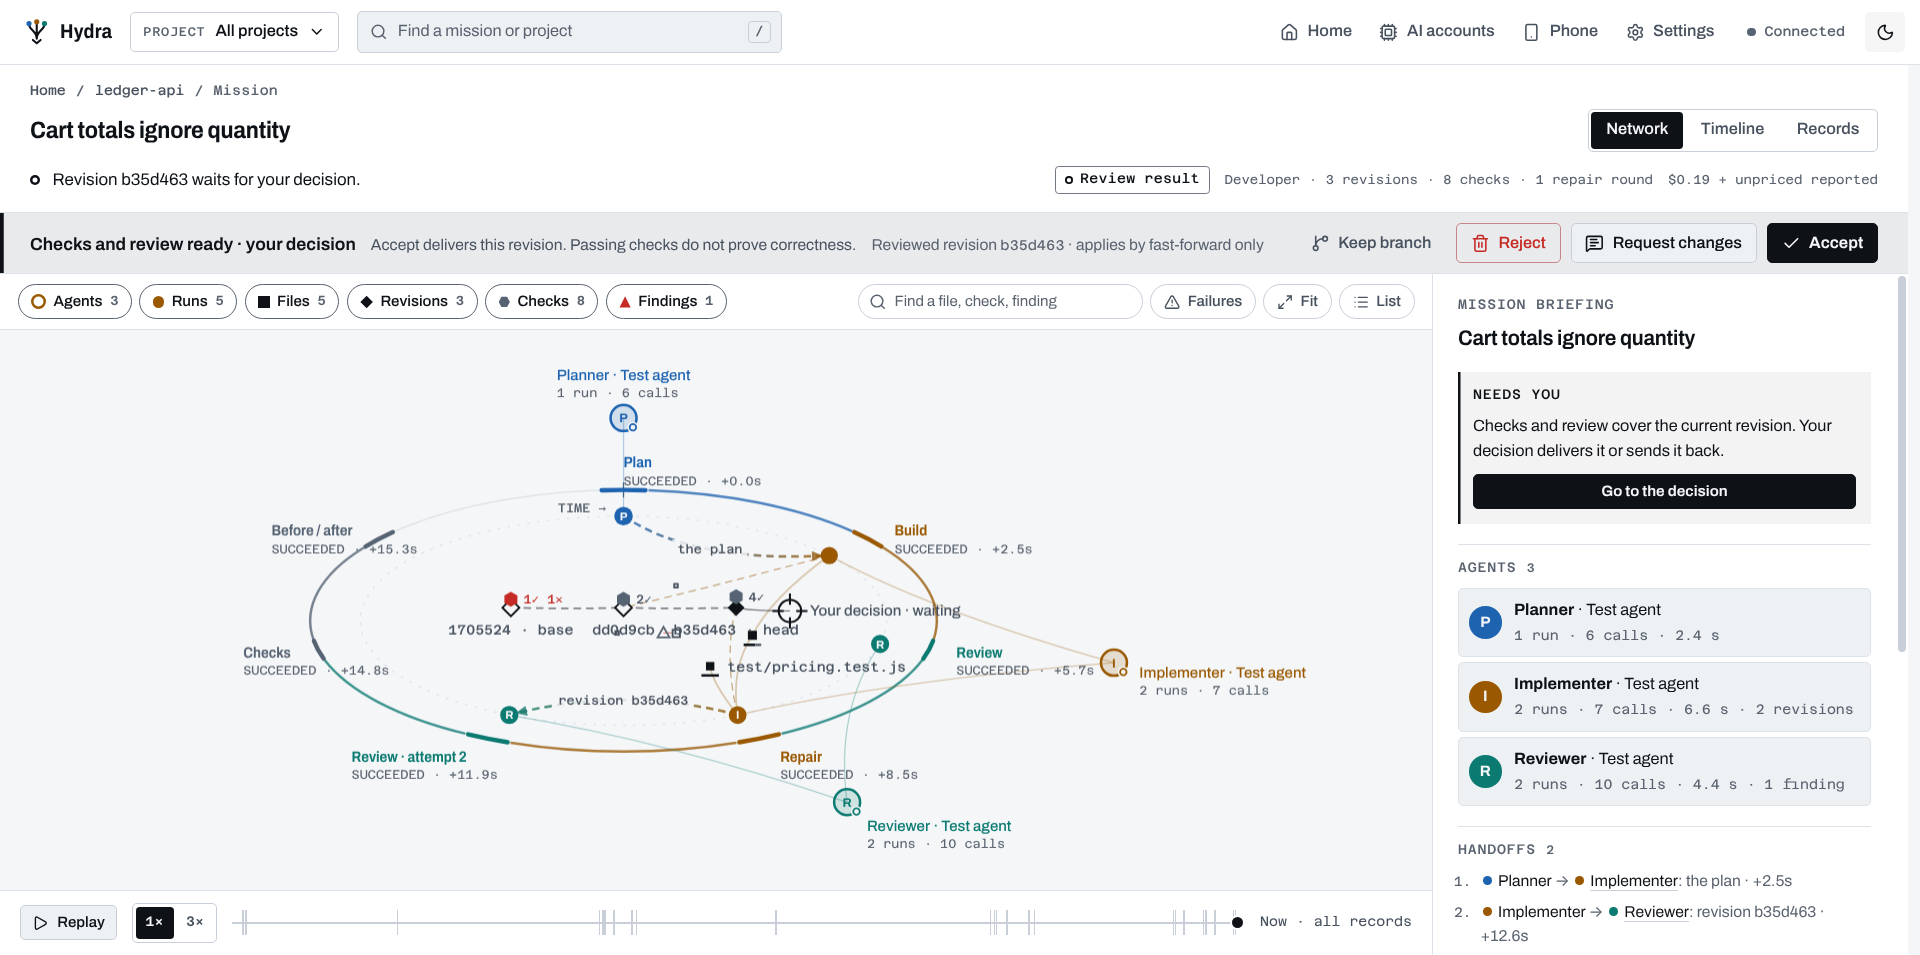
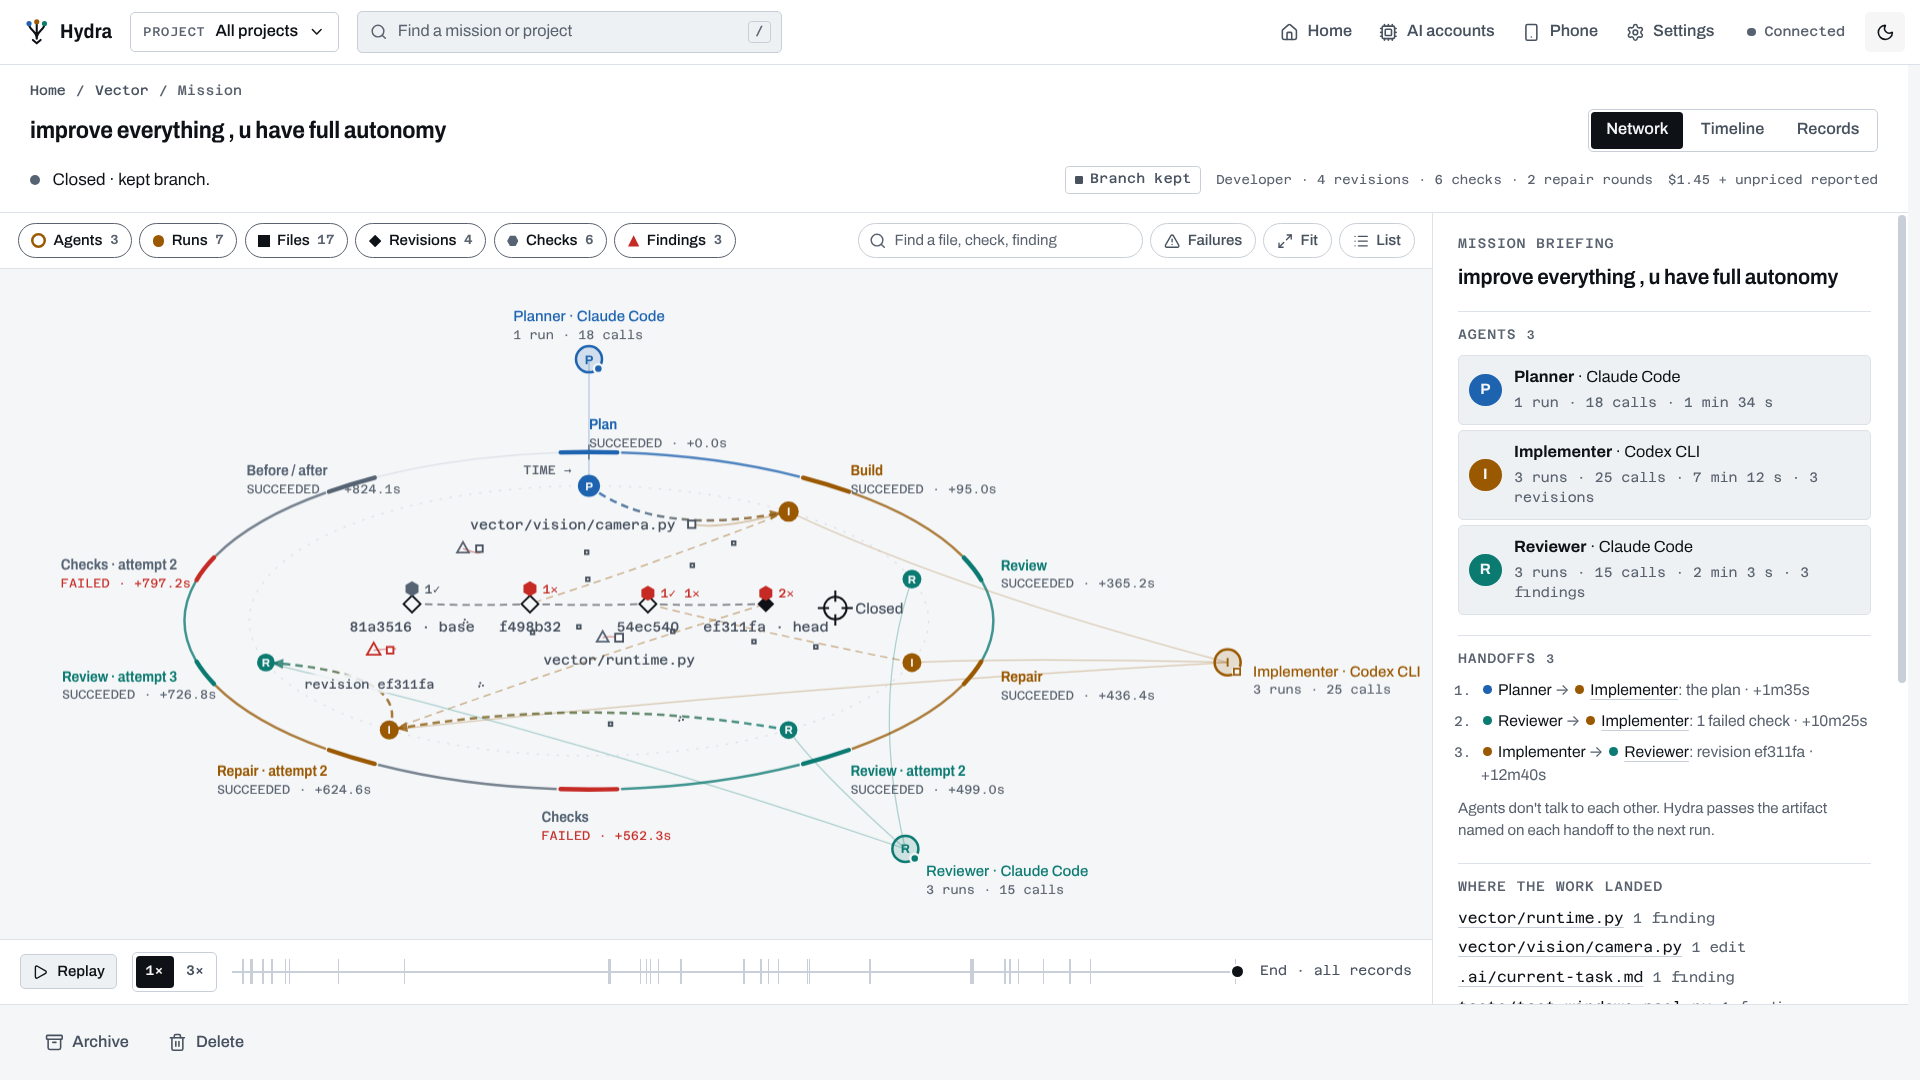
README: real missions, replay animation, pipeline and architecture diagrams
Screenshots and the replay GIF come from the packaged app on a read-only copy of the
owner's own Hydra records (published with his consent); the remote identity key was
removed from the copy and nothing from the database is committed.

Claude-Session: https://claude.ai/code/session_01HtCA6ixxcgZdfA7JCuDFHS

diff --git a/README.md b/README.md
@@ -1,40 +1,154 @@
+<div align="center">
+
+<img src="docs/media/hydra-mark.svg" width="88" alt="Hydra" />
+
 # Hydra
 
-Hydra is a desktop app that supervises AI coding agents (Claude Code and Codex CLI). Ask it a question and it answers; ask it for a change and it plans, implements, reviews and verifies the change in isolation, then waits for your approval.
+**Many coding agents. One supervisor. Nothing lands without proof and your approval.**
+
+Hydra is a desktop app that runs Claude Code and Codex CLI as a team: one plans, one builds, another reviews. Hydra runs your real tests itself and shows you exactly what happened before anything touches your code.
+
+![Status](https://img.shields.io/badge/status-developer%20preview-f5a524)
+![Agents](https://img.shields.io/badge/agents-Claude%20Code%20%C2%B7%20Codex%20CLI-39c6d6)
+![Desktop](https://img.shields.io/badge/desktop-Electron-47848f)
+![Data](https://img.shields.io/badge/data-local%20SQLite-3a7bd5)
+![TypeScript](https://img.shields.io/badge/TypeScript-strict-3178c6)
+
+<img src="docs/media/replay.gif" alt="Replaying a real Hydra mission: the planner hands its plan to the implementer, runs appear on the mission clock in recorded order, the reviewer picks up the revision, and checks land on each revision" width="100%" />
+
+<sub>A real mission replayed in Hydra: <i>"improve everything, u have full autonomy"</i> on a Python computer-vision project. Planner and reviewer on Claude Code, implementer on Codex CLI. Every mark and pulse comes from a recorded event.</sub>
+
+</div>
+
+---
+
+## The pipeline
 
 **PLAN → IMPLEMENT → REVIEW → FIX → VERIFY → DEMO → APPROVAL**
 
-![A mission on Hydra's evidence map: the mission clock with its stages, the agents around it, handoffs between runs, revisions, checks and the decision waiting for you](docs/media/mission-network.png)
+```mermaid
+flowchart LR
+    you([You describe a change]) --> plan[Plan<br/><sub>planner agent</sub>]
+    plan --> impl[Implement<br/><sub>own git worktree</sub>]
+    impl --> review[Review<br/><sub>a second agent</sub>]
+    review -- findings --> fix[Fix<br/><sub>bounded rounds</sub>]
+    fix --> review
+    review -- approved --> verify[Verify<br/><sub>Hydra runs your checks</sub>]
+    verify --> demo[Demo<br/><sub>before vs after</sub>]
+    demo --> decide{Your decision}
+    decide -- Accept --> apply([Applied to your branch])
+    decide -- Request changes --> fix
+    decide -- Reject or keep branch --> safe([Your tree untouched])
+```
 
-- **Isolated changes.** Every change runs in its own git worktree on a `hydra/*` branch. Hydra delivers a task revision only after your approval. Recorded applies offer revert-based rollback, subject to branch state and conflict resolution. Project checks still execute as your user; use trusted repositories.
-- **Evidence, not claims.** Hydra runs your project's tests and builds itself (Node, Python, Go, Rust, Java, C/C++, or your own `.hydra/checks.json`), records exit codes against the exact commit, and shows before/after results.
+- **Isolated changes.** Every change runs in its own git worktree on a `hydra/*` branch. Hydra delivers a revision only after your approval. Recorded applies offer revert-based rollback, subject to branch state and conflict resolution. Project checks still run as your user, so use repositories you trust.
+- **Evidence, not claims.** Hydra runs your project's tests and builds itself (Node, Python, Go, Rust, Java, C/C++, or your own `.hydra/checks.json`). It records exit codes against the exact commit and shows before and after results. An agent saying "tests pass" is never evidence.
 - **Independent review.** A second agent (a different provider when available) reviews the diff together with the real test results. Fix rounds are bounded.
 - **Budgets.** Per-task limits on cost, tokens, active time and agent runs.
 - **Your accounts, your bill.** Hydra uses *your* locally signed-in Claude Code and Codex CLIs. It never stores, proxies or ships credentials.
-- **Your data stays local.** Everything is in a local SQLite database. Remote control from a phone on your network is end-to-end encrypted, and no cloud database is involved.
+- **Your data stays local.** Everything lives in a local SQLite database. Remote control from a phone on your network is end-to-end encrypted, and no cloud database is involved.
 
-## A look inside
+## Two real missions
 
-Every mission opens on an evidence map drawn only from what Hydra recorded: no invented agent chatter, progress bars or success states. Anything derived from a stated rule is marked as derived.
+Both ran on the same night in October 2026, from open-ended prompts that handed the agents "full autonomy".
 
-| | |
+| | **telekinisis** · *"improve it, u have full liberty to act autonomously"* | **Vector** · *"improve everything, u have full autonomy"* |
+|---|---|---|
+| Team | Planner and reviewer on Claude Code, implementer on Codex CLI | Same team |
+| Work | 5 agent runs, 3 revisions, 1 repair round | 7 agent runs, 4 revisions, 2 repair rounds |
+| Review | **Approved**: no blocker or major problem | **Changes requested** (3 findings across its reviews) |
+| Hydra's own checks | `unittest` **fail → pass**, no regressions | `pytest` **pass → fail**: a regression |
+| Outcome | Branch kept | Branch kept, **nothing applied to the project** |
+| Reported cost | $0.99 + unpriced Codex usage | $1.45 + unpriced Codex usage |
+
+The second mission is the interesting one. The planner refused to boil the ocean:
+
+> *"Improve everything" is too broad to deliver in one reviewable change, so this plan targets the most valuable gaps I found: robustness and safety in the live runtime path (camera, vision worker, app startup and shutdown).*
+
+The implementer delivered camera recovery, stall handling and resource cleanup. The reviewer found a real problem in the new tests. Hydra's own before/after run showed `pytest` passing on the original commit and failing on the final one. So nothing was merged. The work stayed on its branch, and the evidence for why is one click away.
+
+## Inside the app
+
+Every mission opens on an **evidence map**, drawn only from what Hydra recorded. There is no invented agent chatter, no fake progress bars and no success states nobody observed. Anything derived from a stated rule is marked as derived.
+
+<img src="docs/media/mission-network.png" alt="The Vector mission on Hydra's evidence map: stages around the mission clock, three agents labelled by provider, handoffs, four revisions with their check badges, and the mission briefing" width="100%" />
+
+<sub>**The mission clock.** Stages run clockwise in recorded order. Agents sit outside the clock, each one a role on a provider. Revisions run left to right inside it, each with a badge counting its checks. The briefing on the right is computed from the records: who did what, every handoff, where the work landed and what the proof says.</sub>
+
+<table>
+<tr>
+<td width="50%"><img src="docs/media/agent-focus.png" alt="The Codex CLI implementer in focus: its three runs, 25 reported tool calls, 9 edits and 3 revisions" /></td>
+<td width="50%"><img src="docs/media/revision.png" alt="Revision ef311fa selected: commit, checks on it (two failed pytest runs), who produced it and who reviewed it" /></td>
+</tr>
+<tr>
+<td><b>Focus on an agent.</b> Everything else dims. Its runs, reported tool calls, edits, revisions and token usage come straight from the run records.</td>
+<td><b>Follow a revision.</b> The exact commit, the checks Hydra ran on it, the run that produced it and the review that read it.</td>
+</tr>
+<tr>
+<td><img src="docs/media/timeline.png" alt="Timeline lens: you, the agents, edits by file and the checks Hydra ran, in lanes over 16 minutes of recorded time" /></td>
+<td><img src="docs/media/records.png" alt="Records lens: the plan written by the planner and the before/after check comparison showing the pytest regression" /></td>
+</tr>
+<tr>
+<td><b>Timeline.</b> The same records in lanes: you, each agent, edits by file and every check Hydra ran, across the mission's 16 recorded minutes.</td>
+<td><b>Records.</b> The full plan, the before/after comparison (here: <code>pytest</code> pass → fail, flagged as a regression), every check and the event log.</td>
+</tr>
+<tr>
+<td><img src="docs/media/mission-network-day.png" alt="The same mission in the Day theme" /></td>
+<td><img src="docs/media/second-mission.png" alt="The telekinisis mission: plan, build, review, repair, a second review and passing checks" /></td>
+</tr>
+<tr>
+<td><b>Night and Day.</b> Two full themes, designed together. Red always means something stopped.</td>
+<td><b>Another mission.</b> The telekinisis run: plan, build, review, one repair round, a second review, then checks that went from failing to passing.</td>
+</tr>
+</table>
+
+**Replay** (the animation at the top) steps through recorded time. Later records are hidden and outcomes never leak backwards. Each newly recorded handoff or result lights up once, and decisions are disabled until you return to the present. With reduced motion on, it steps from moment to moment without animation.
+
+<sub>Screenshots and animation: the packaged desktop app at 1536×864 (125 % scaling on a 1920×1080 display), on a read-only copy of the owner's own Hydra records. Project names, prompts and agent output are real.</sub>
+
+## How it is built
+
+```mermaid
+flowchart TB
+    subgraph desktop["Desktop app (Electron)"]
+        ui["React UI<br/><sub>evidence map · replay · decisions</sub>"]
+    end
+    subgraph hydrad["hydrad (local engine)"]
+        api["HTTP + WebSocket API<br/><sub>typed, zod-validated</sub>"]
+        orch["Orchestrator<br/><sub>workflow · stages · budgets · policy</sub>"]
+        agents["Agent adapters<br/><sub>Claude Code · Codex CLI</sub>"]
+        iso["Isolation<br/><sub>git worktrees</sub>"]
+        verify["Verification<br/><sub>check detectors + runner</sub>"]
+        store[("SQLite journal<br/><sub>tasks · runs · evidence · events</sub>")]
+    end
+    phone["Paired phone<br/><sub>same UI, remote</sub>"]
+    ui <--> api
+    api --> orch
+    orch --> agents
+    orch --> iso
+    orch --> verify
+    orch --> store
+    phone <-. "encrypted channel (X25519 / Ed25519)" .-> api
+```
+
+| Package | What it does |
 |---|---|
-| ![Home: describe a change, the project's missions linked through the files they touched, and what is waiting for you](docs/media/home.png) | ![A mission in the Day theme](docs/media/mission-network-day.png) |
-| **Home.** Describe a change or ask a question. Missions are linked only through the files they recorded touching, and anything waiting for you is listed first. | **Night and Day themes.** Stages run clockwise around the mission clock. Revisions sit inside it, oldest on the left, and each carries a badge counting its checks. |
-| ![Replay part-way through a mission, with the briefing as of that moment](docs/media/replay.png) | ![One agent in focus with its runs and facts](docs/media/agent-focus.png) |
-| **Replay.** Step back through recorded time. Later records are hidden and outcomes never leak backwards. Each newly recorded handoff or result lights up once, and decisions are disabled until you return to now. | **Agents and handoffs.** An agent is one role on one provider (Claude Code or Codex CLI). An arrow is drawn only where a recorded artifact went from one run to the next: the plan, a revision, findings or failed checks. |
-| ![Timeline lens: you, agents, code and proof in lanes over recorded time](docs/media/timeline.png) | ![A mission whose checks failed: acceptance is blocked until the failure is resolved](docs/media/acceptance-blocked.png) |
-| **Timeline.** The same records laid out in lanes: you, the agents, edits by file, and the checks Hydra ran. | **Acceptance gates.** When a check fails, Hydra refuses acceptance and says why. You can send the change back for repair, keep its branch, or reject it. |
+| [`packages/engine`](packages/engine) | The orchestration engine as a library: store, workflow, stages, adapters, isolation, verification, budget, policy. |
+| [`packages/protocol`](packages/protocol) | Versioned zod schemas for every domain type, API call and event. |
+| [`packages/secure-channel`](packages/secure-channel) | Pairing and session cryptography shared by the engine and the phone client. |
+| [`packages/ui`](packages/ui) | The React interface, including the canvas evidence map, replay and the read-only evidence graph adapter. |
+| [`apps/hydrad`](apps/hydrad) | Engine host: HTTP/WebSocket API, static UI, remote bridge, CLI (`hydrad serve`, `hydrad doctor`). |
+| [`apps/desktop`](apps/desktop) | Electron shell: starts hydrad, opens the window, native dialogs and updates. |
 
-<sub>Screenshots: the packaged desktop app at 1536×764 (a maximized window on a 1920×1080 display at 125 %), showing recorded fixture missions. These are the real Hydra engine, Git and project checks, driven by scripted test agents instead of model providers, so costs and agent output are illustrative.</sub>
+The workflow never branches on "Claude" or "Codex". It asks adapters for capabilities, so providers are interchangeable per role. Every restriction is labelled honestly as enforced by the OS, by the provider CLI, or by a prompt only. More detail: [Architecture](docs/v2/ARCHITECTURE.md) · [Threat model](docs/v2/THREAT_MODEL.md) · [Decisions](docs/v2/DECISIONS.md) · [User guide](docs/v2/USER_GUIDE.md).
 
 ## Status
 
-**Supervised developer preview.** Historical real-provider and CI evidence is dated in [TEST_EVIDENCE](docs/v2/TEST_EVIDENCE.md); it does not qualify every current build or platform. The [Mission Desk milestone](docs/v2/PRODUCT_MILESTONE.md) simplifies the full desktop product around conversation, a revision-bound receipt and explicit decisions. Signing, public feed/recovery, hostile-code containment, trusted remote bootstrap and broader hardware/accessibility qualification remain release gates. The [full-app distribution and Agensi plan](docs/v2/AGENSI_FULL_PRODUCT.md) separates the Electron application from any standalone companion skill. Nothing has been published by this milestone.
+**Supervised developer preview.** Historical real-provider and CI evidence is dated in [TEST_EVIDENCE](docs/v2/TEST_EVIDENCE.md); it does not qualify every current build or platform. Signing, public update feed and recovery, hostile-code containment, trusted remote bootstrap and broader hardware and accessibility qualification remain release gates. Nothing has been published as a release.
 
 ## Develop
 
-Requires Node ≥ 22.13 and git.
+Requires Node ≥ 22.13 and git, plus Claude Code and/or Codex CLI signed in on your machine.
 
 ```bash
 npm install
